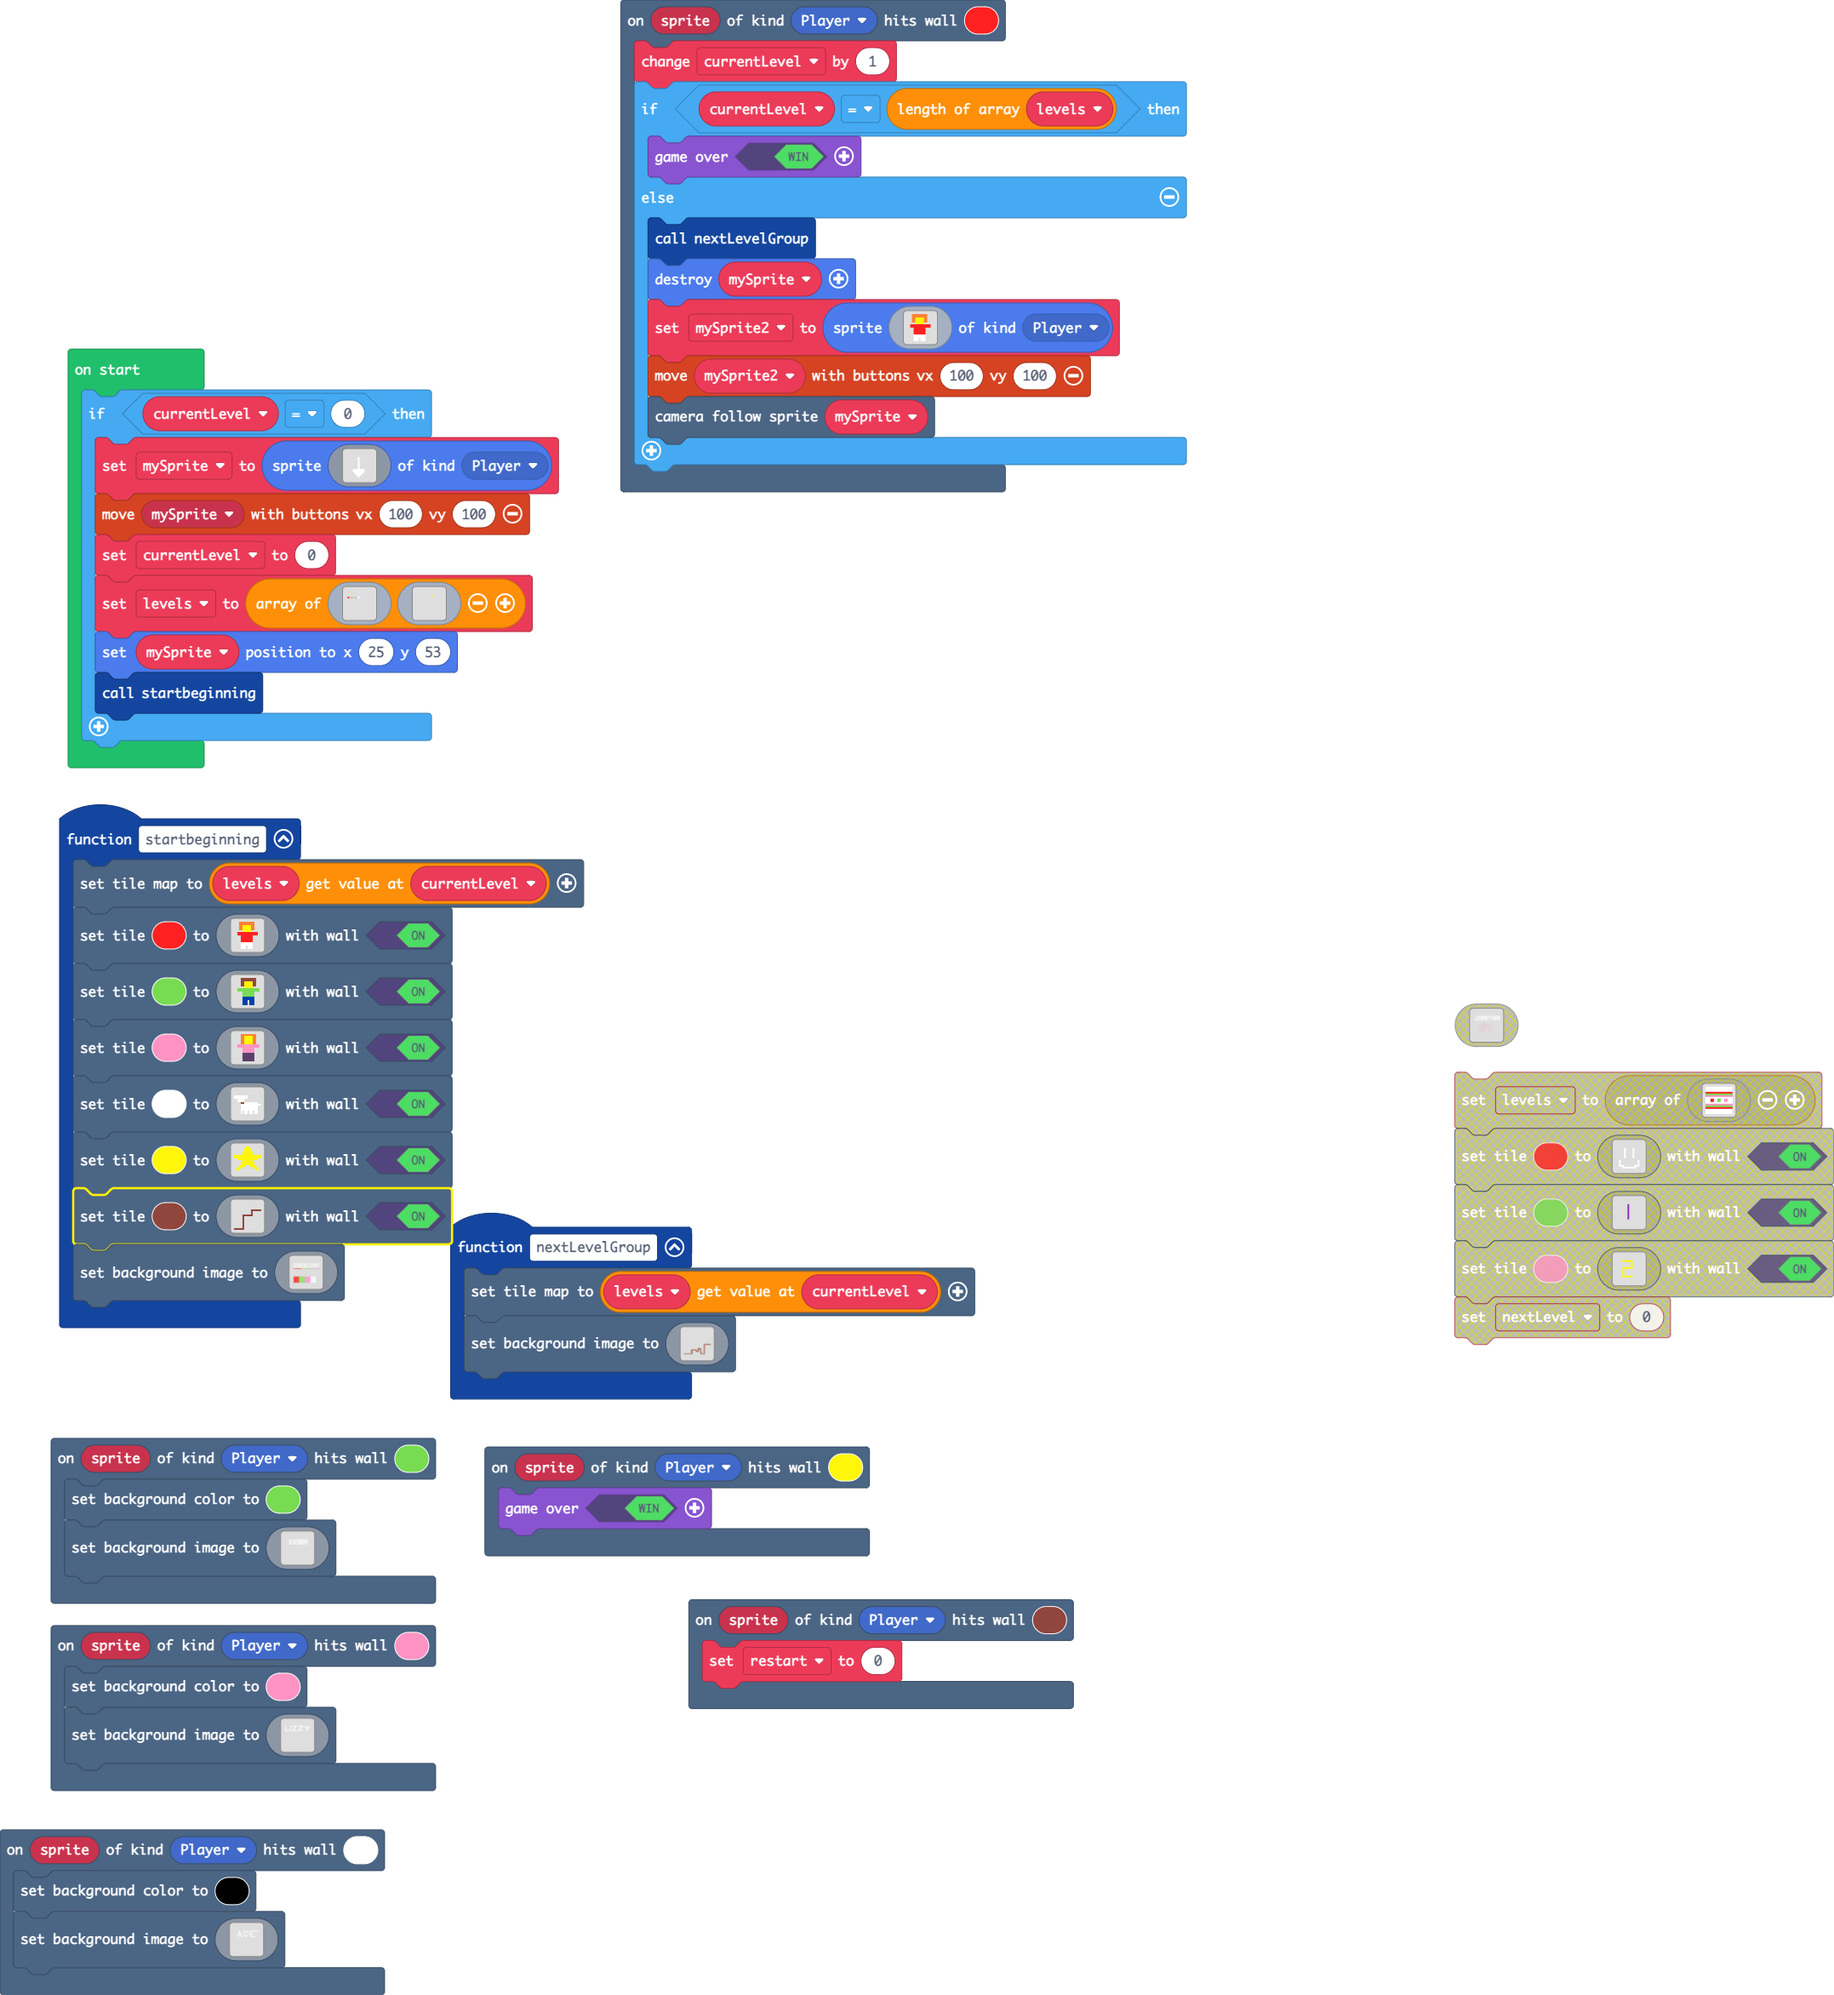
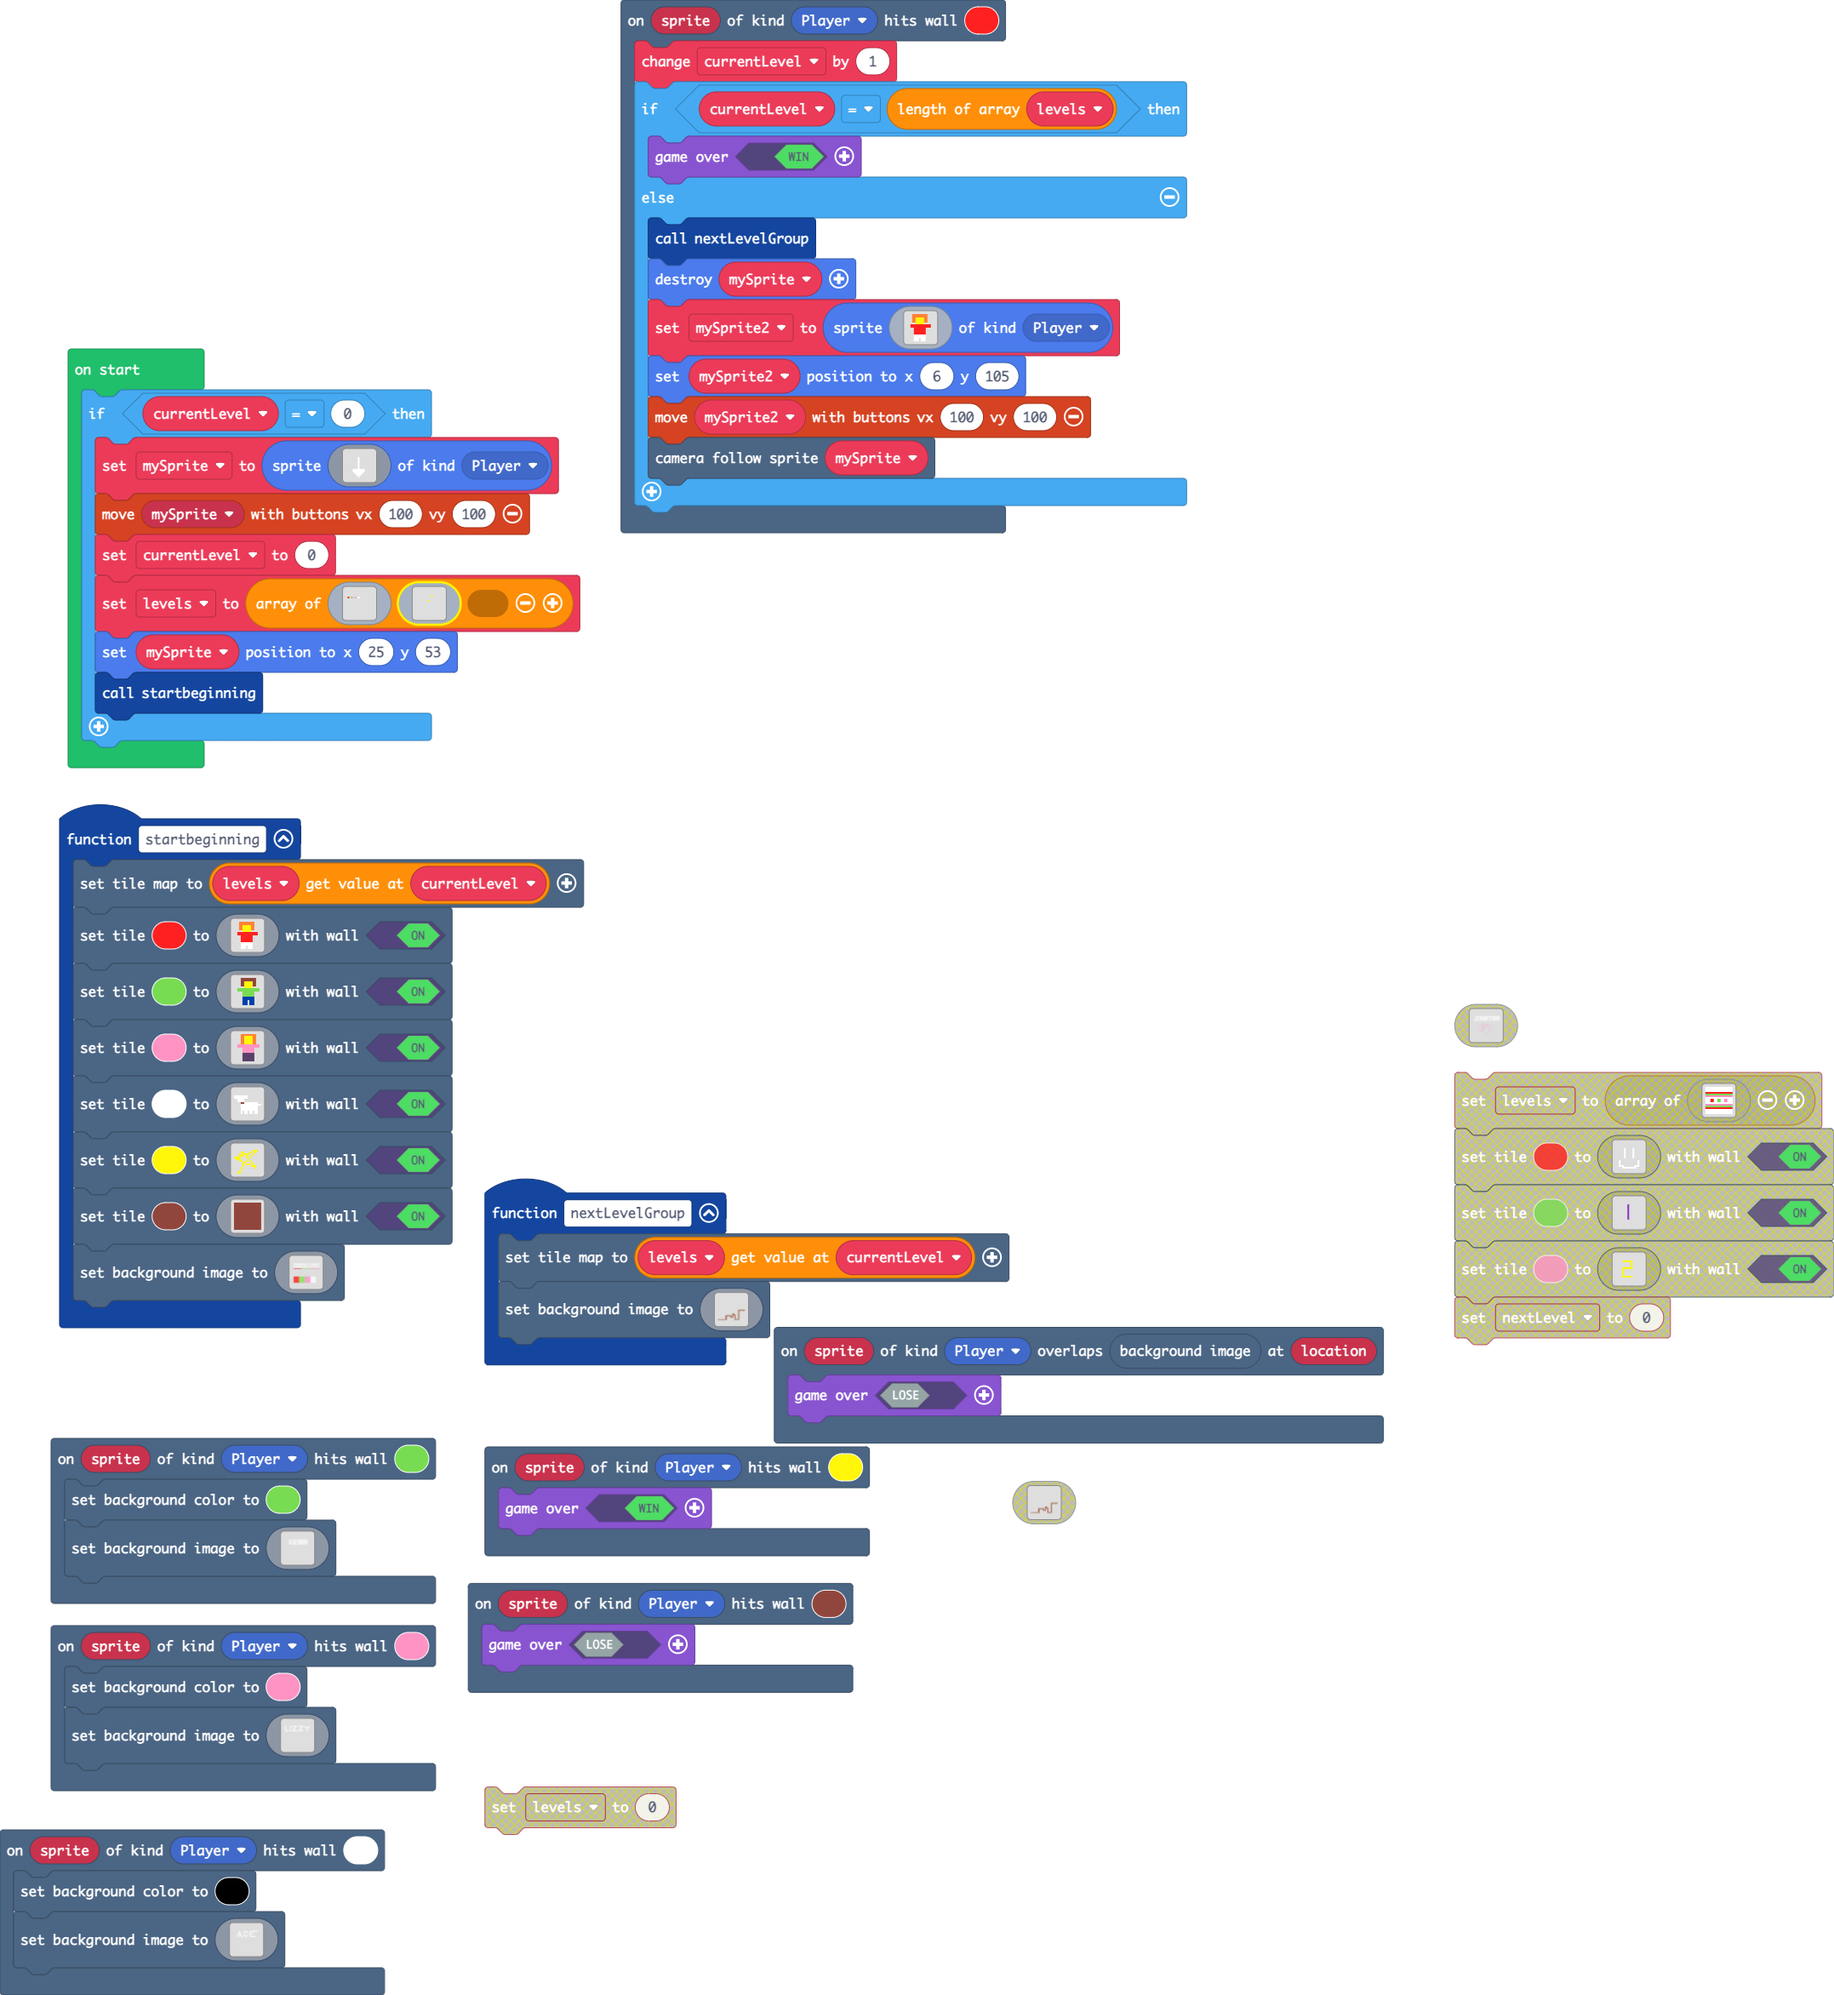
Update pxt.json, main.blocks, main.ts

diff --git a/main.ts b/main.ts
@@ -249,7 +249,7 @@ scene.onHitTile(SpriteKind.Player, 7, function (sprite) {
         `)
 })
 scene.onHitTile(SpriteKind.Player, 14, function (sprite) {
-    restart = 0
+    game.over(false)
 })
 function startbeginning () {
     scene.setTileMap(levels[currentLevel])
@@ -326,40 +326,40 @@ function startbeginning () {
         . . . . . . . . . . . . . . . . 
         `, true)
     scene.setTile(5, img`
-        . . . . . . . 5 5 . . . . . . . 
-        . . . . . . 5 5 5 5 . . . . . . 
-        . . . . . . 5 5 5 5 . . . . . . 
-        . . . . . 5 5 5 5 5 5 . . . . . 
-        . . . . . 5 5 5 5 5 5 . . . . . 
-        5 5 5 5 5 5 5 5 5 5 5 5 5 5 5 5 
-        5 5 5 5 5 5 5 5 5 5 5 5 5 5 5 5 
-        . . 5 5 5 5 5 5 5 5 5 5 5 5 . . 
-        . . . . . 5 5 5 5 5 5 . . . . . 
-        . . . . 5 5 5 5 5 5 5 5 . . . . 
-        . . . . 5 5 5 5 5 5 5 5 . . . . 
-        . . . 5 5 5 5 . . 5 5 5 5 . . . 
-        . . 5 5 5 . . . . . . 5 5 5 . . 
-        . 5 5 . . . . . . . . . . 5 5 . 
         . . . . . . . . . . . . . . . . 
         . . . . . . . . . . . . . . . . 
+        . . . . . . . . . . . 5 5 5 . . 
+        . . . . 5 5 . . . 5 5 . 5 . . . 
+        . . . 5 . 5 5 5 5 . . 5 . . . . 
+        . . . 5 5 5 . 5 . . 5 . . . . . 
+        5 5 5 5 . . . 5 . 5 . . . . . . 
+        . 5 5 5 . . . . 5 . . . . . . . 
+        . . . 5 5 . . 5 . 5 . . . . . . 
+        . . . . . 5 5 . . . 5 . . . . . 
+        . . . . . 5 . 5 5 5 . 5 . . . . 
+        . . . . . 5 . . . . 5 5 5 . . . 
+        . . . . 5 . . . . . . . 5 . . . 
+        . . . . 5 . . . . . . . . . . . 
+        . . . 5 . . . . . . . . . . . . 
+        . . 5 5 . . . . . . . . . . . . 
         `, true)
     scene.setTile(14, img`
-        . . . . . . . . . . . . . . . . 
-        . . . . . . . . . . . . . . . . 
-        . . . . . . . . . . . . . . . . 
-        . . . . . . . . . . . . . . . . 
-        . . . . . . . . . . e e e e e e 
-        . . . . . . . . . . e . . . . . 
-        . . . . . . . . . . e . . . . . 
-        . . . . . e e e e e e . . . . . 
-        . . . . . e . . . . . . . . . . 
-        . . . . . e . . . . . . . . . . 
-        . . . . . e . . . . . . . . . . 
-        . . . . . e . . . . . . . . . . 
-        . . . . . e . . . . . . . . . . 
-        . . . . . e . . . . . . . . . . 
-        . . . . . e . . . . . . . . . . 
-        e e e e e e . . . . . . . . . . 
+        e e e e e e e e e e e e e e e e 
+        e e e e e e e e e e e e e e e e 
+        e e e e e e e e e e e e e e e e 
+        e e e e e e e e e e e e e e e e 
+        e e e e e e e e e e e e e e e e 
+        e e e e e e e e e e e e e e e e 
+        e e e e e e e e e e e e e e e e 
+        e e e e e e e e e e e e e e e e 
+        e e e e e e e e e e e e e e e e 
+        e e e e e e e e e e e e e e e e 
+        e e e e e e e e e e e e e e e e 
+        e e e e e e e e e e e e e e e e 
+        e e e e e e e e e e e e e e e e 
+        e e e e e e e e e e e e e e e e 
+        e e e e e e e e e e e e e e e e 
+        e e e e e e e e e e e e e e e e 
         `, true)
     scene.setBackgroundImage(img`
         ................................................................................................................................................................
@@ -762,12 +762,15 @@ scene.onHitTile(SpriteKind.Player, 2, function (sprite) {
             . . . . 1 1 1 . 1 1 1 . . . . . 
             . . . . 1 1 1 . 1 1 1 . . . . . 
             `, SpriteKind.Player)
+        mySprite2.setPosition(6, 105)
         controller.moveSprite(mySprite2, 100, 100)
         scene.cameraFollowSprite(mySprite)
     }
 })
+scene.onOverlapTile(SpriteKind.Player, scene.backgroundImage(), function (sprite, location) {
+    game.over(false)
+})
 let mySprite2: Sprite = null
-let restart = 0
 let levels: Image[] = []
 let mySprite: Sprite = null
 let currentLevel = 0
@@ -816,7 +819,7 @@ if (currentLevel == 0) {
         . . . . . . . . . 5 . . . . . . 
         . . . . . . . . . . . . . . . . 
         . . . . . . . . . . . . . . . . 
-        . . . . . . . . . . . . . . . . 
+        . . . . . . . 5 . . . . . . . . 
         . . . . . . . . . . . . . . . . 
         . . . . . . . . . . . . . . . . 
         . . . . . . . . . . . . . . . . 
